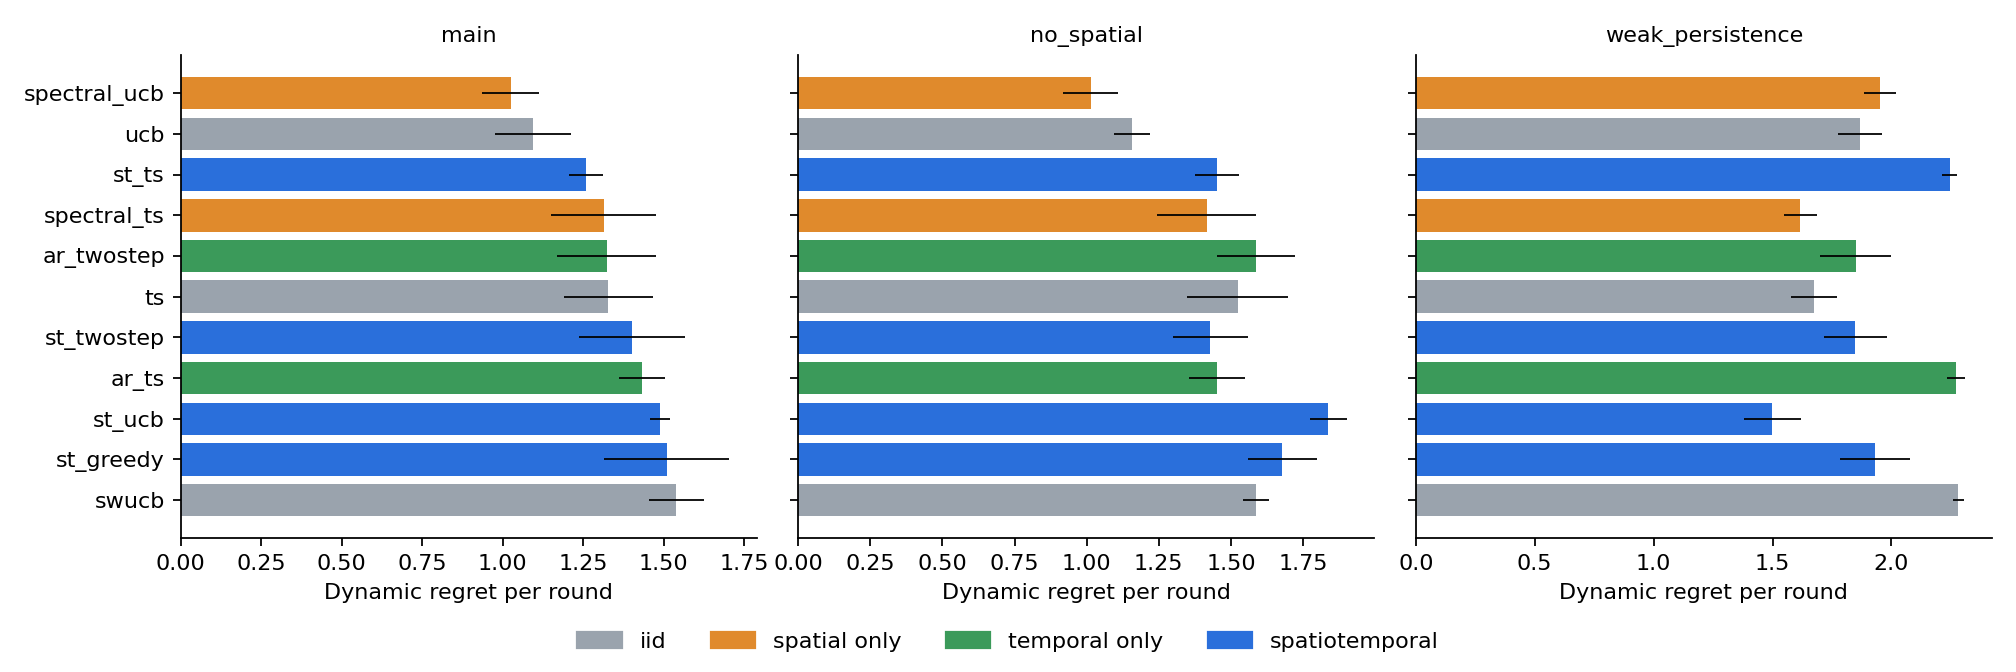
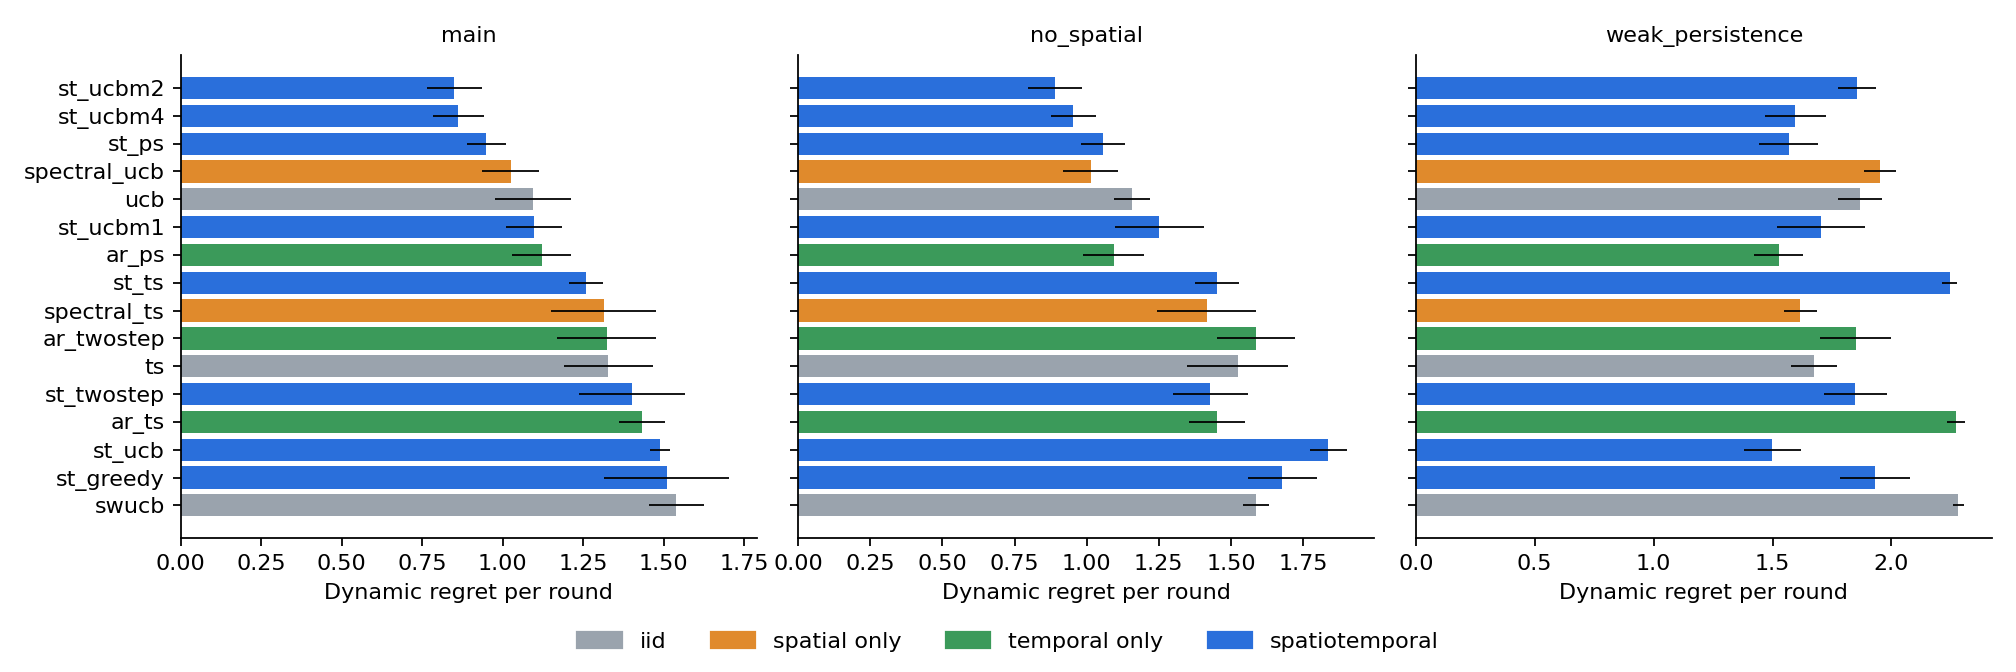
Toy results: predictive sampling and tuned ST-UCB beat iid, spatial-only and temporal-only baselines

diff --git a/experiments/st_toy/analyze.py b/experiments/st_toy/analyze.py
@@ -26,6 +26,8 @@ FAMILY = {
     "ar_ts": "temporal only", "ar_twostep": "temporal only",
     "st_greedy": "spatiotemporal", "st_ts": "spatiotemporal", "st_ucb": "spatiotemporal",
     "st_twostep": "spatiotemporal",
+    "st_ps": "spatiotemporal", "st_ucbm1": "spatiotemporal", "st_ucbm2": "spatiotemporal",
+    "st_ucbm4": "spatiotemporal", "ar_ps": "temporal only",
 }
 COLORS = {"iid": "#9aa3ad", "spatial only": "#e08a2c", "temporal only": "#3b9a5a", "spatiotemporal": "#2a6fdb"}
 
@@ -45,6 +47,8 @@ def innovation_floor(config: str, seed: int, draws: int = 200_000) -> float:
 
 def main() -> None:
     runs = pd.read_csv(RESULTS / "runs.csv")
+    if (RESULTS / "runs_extra.csv").exists():
+        runs = pd.concat([runs, pd.read_csv(RESULTS / "runs_extra.csv")], ignore_index=True)
     T = max(int(c.split("@")[1]) for c in runs.columns if c.startswith("dyn@") and runs[c].notna().all())
     runs["dyn_per_round"] = runs[f"dyn@{T}"] / T
     runs["mu_per_round"] = runs[f"mu@{T}"] / T
@@ -67,12 +71,14 @@ def main() -> None:
     lines = [f"Regret per round at T = {T:,} (mean over seeds; standard error in brackets). Dynamic regret is "
              "against the full-current-state oracle; mean regret against the best long-run mean.", ""]
     for config, d in s.groupby("config", sort=False):
+        ts_reg = d.set_index("policy").dynamic_regret_per_round["ts"]
         lines += [f"**{config}** (innovation lower bound: {floor[config]:.3f} per round)", "",
-                  "| Policy | Uses | Dynamic regret / round | Ratio to TS | Mean regret / round |",
-                  "| --- | --- | ---: | ---: | ---: |"]
+                  "| Policy | Uses | Dynamic regret / round | Ratio to TS | Gap to the bound closed | Mean regret / round |",
+                  "| --- | --- | ---: | ---: | ---: | ---: |"]
         for _, r in d.sort_values("dynamic_regret_per_round").iterrows():
+            closed = (ts_reg - r.dynamic_regret_per_round) / (ts_reg - floor[config])
             lines.append(f"| {r.policy} | {r.family} | {r.dynamic_regret_per_round:.3f} [{r.se:.3f}] "
-                         f"| {r.ratio_to_ts:.3f} | {r.mean_regret_per_round:.3f} |")
+                         f"| {r.ratio_to_ts:.3f} | {closed:+.0%} | {r.mean_regret_per_round:.3f} |")
         lines.append("")
     text = "\n".join(lines)
     (RESULTS / "summary.md").write_text(text)

diff --git a/research/st_toy/results/summary.md b/research/st_toy/results/summary.md
@@ -2,48 +2,63 @@ Regret per round at T = 2,000 (mean over seeds; standard error in brackets). Dyn
 
 **main** (innovation lower bound: 0.298 per round)
 
-| Policy | Uses | Dynamic regret / round | Ratio to TS | Mean regret / round |
-| --- | --- | ---: | ---: | ---: |
-| spectral_ucb | spatial only | 1.026 [0.045] | 0.794 | 0.712 |
-| ucb | iid | 1.095 [0.061] | 0.847 | 0.682 |
-| st_ts | spatiotemporal | 1.258 [0.027] | 0.969 | 0.784 |
-| spectral_ts | spatial only | 1.314 [0.083] | 1.004 | 0.530 |
-| ar_twostep | temporal only | 1.323 [0.078] | 1.022 | 0.780 |
-| ts | iid | 1.329 [0.070] | 1.000 | 0.523 |
-| st_twostep | spatiotemporal | 1.402 [0.084] | 1.086 | 0.681 |
-| ar_ts | temporal only | 1.433 [0.036] | 1.103 | 0.821 |
-| st_ucb | spatiotemporal | 1.489 [0.016] | 1.145 | 0.876 |
-| st_greedy | spatiotemporal | 1.509 [0.099] | 1.166 | 0.774 |
-| swucb | iid | 1.540 [0.043] | 1.191 | 0.916 |
+| Policy | Uses | Dynamic regret / round | Ratio to TS | Gap to the bound closed | Mean regret / round |
+| --- | --- | ---: | ---: | ---: | ---: |
+| st_ucbm2 | spatiotemporal | 0.850 [0.043] | 0.651 | +46% | 0.565 |
+| st_ucbm4 | spatiotemporal | 0.863 [0.040] | 0.666 | +45% | 0.655 |
+| st_ps | spatiotemporal | 0.950 [0.031] | 0.733 | +37% | 0.686 |
+| spectral_ucb | spatial only | 1.026 [0.045] | 0.794 | +29% | 0.712 |
+| ucb | iid | 1.095 [0.061] | 0.847 | +23% | 0.682 |
+| st_ucbm1 | spatiotemporal | 1.098 [0.045] | 0.845 | +22% | 0.600 |
+| ar_ps | temporal only | 1.121 [0.047] | 0.864 | +20% | 0.752 |
+| st_ts | spatiotemporal | 1.258 [0.027] | 0.969 | +7% | 0.784 |
+| spectral_ts | spatial only | 1.314 [0.083] | 1.004 | +1% | 0.530 |
+| ar_twostep | temporal only | 1.323 [0.078] | 1.022 | +1% | 0.780 |
+| ts | iid | 1.329 [0.070] | 1.000 | +0% | 0.523 |
+| st_twostep | spatiotemporal | 1.402 [0.084] | 1.086 | -7% | 0.681 |
+| ar_ts | temporal only | 1.433 [0.036] | 1.103 | -10% | 0.821 |
+| st_ucb | spatiotemporal | 1.489 [0.016] | 1.145 | -16% | 0.876 |
+| st_greedy | spatiotemporal | 1.509 [0.099] | 1.166 | -17% | 0.774 |
+| swucb | iid | 1.540 [0.043] | 1.191 | -20% | 0.916 |
 
 **no_spatial** (innovation lower bound: 0.323 per round)
 
-| Policy | Uses | Dynamic regret / round | Ratio to TS | Mean regret / round |
-| --- | --- | ---: | ---: | ---: |
-| spectral_ucb | spatial only | 1.014 [0.049] | 0.685 | 0.592 |
-| ucb | iid | 1.157 [0.032] | 0.775 | 0.661 |
-| spectral_ts | spatial only | 1.416 [0.087] | 0.933 | 0.554 |
-| st_twostep | spatiotemporal | 1.429 [0.066] | 0.973 | 0.717 |
-| st_ts | spatiotemporal | 1.452 [0.039] | 0.980 | 0.806 |
-| ar_ts | temporal only | 1.452 [0.050] | 0.982 | 0.826 |
-| ts | iid | 1.523 [0.090] | 1.000 | 0.584 |
-| ar_twostep | temporal only | 1.586 [0.069] | 1.083 | 0.883 |
-| swucb | iid | 1.586 [0.023] | 1.076 | 0.909 |
-| st_greedy | spatiotemporal | 1.678 [0.061] | 1.138 | 0.782 |
-| st_ucb | spatiotemporal | 1.838 [0.033] | 1.242 | 0.929 |
+| Policy | Uses | Dynamic regret / round | Ratio to TS | Gap to the bound closed | Mean regret / round |
+| --- | --- | ---: | ---: | ---: | ---: |
+| st_ucbm2 | spatiotemporal | 0.890 [0.048] | 0.599 | +53% | 0.512 |
+| st_ucbm4 | spatiotemporal | 0.953 [0.040] | 0.648 | +48% | 0.680 |
+| spectral_ucb | spatial only | 1.014 [0.049] | 0.685 | +42% | 0.592 |
+| st_ps | spatiotemporal | 1.057 [0.039] | 0.717 | +39% | 0.721 |
+| ar_ps | temporal only | 1.094 [0.054] | 0.744 | +36% | 0.743 |
+| ucb | iid | 1.157 [0.032] | 0.775 | +30% | 0.661 |
+| st_ucbm1 | spatiotemporal | 1.252 [0.078] | 0.849 | +23% | 0.736 |
+| spectral_ts | spatial only | 1.416 [0.087] | 0.933 | +9% | 0.554 |
+| st_twostep | spatiotemporal | 1.429 [0.066] | 0.973 | +8% | 0.717 |
+| st_ts | spatiotemporal | 1.452 [0.039] | 0.980 | +6% | 0.806 |
+| ar_ts | temporal only | 1.452 [0.050] | 0.982 | +6% | 0.826 |
+| ts | iid | 1.523 [0.090] | 1.000 | +0% | 0.584 |
+| ar_twostep | temporal only | 1.586 [0.069] | 1.083 | -5% | 0.883 |
+| swucb | iid | 1.586 [0.023] | 1.076 | -5% | 0.909 |
+| st_greedy | spatiotemporal | 1.678 [0.061] | 1.138 | -13% | 0.782 |
+| st_ucb | spatiotemporal | 1.838 [0.033] | 1.242 | -26% | 0.929 |
 
 **weak_persistence** (innovation lower bound: 1.276 per round)
 
-| Policy | Uses | Dynamic regret / round | Ratio to TS | Mean regret / round |
-| --- | --- | ---: | ---: | ---: |
-| st_ucb | spatiotemporal | 1.499 [0.061] | 0.896 | 0.192 |
-| spectral_ts | spatial only | 1.617 [0.035] | 0.967 | 0.242 |
-| ts | iid | 1.675 [0.049] | 1.000 | 0.293 |
-| st_twostep | spatiotemporal | 1.848 [0.068] | 1.113 | 0.459 |
-| ar_twostep | temporal only | 1.850 [0.077] | 1.108 | 0.502 |
-| ucb | iid | 1.867 [0.048] | 1.117 | 0.557 |
-| st_greedy | spatiotemporal | 1.932 [0.075] | 1.161 | 0.545 |
-| spectral_ucb | spatial only | 1.953 [0.034] | 1.170 | 0.697 |
-| st_ts | spatiotemporal | 2.246 [0.016] | 1.348 | 0.862 |
-| ar_ts | temporal only | 2.270 [0.019] | 1.362 | 0.879 |
-| swucb | iid | 2.282 [0.012] | 1.370 | 0.963 |
+| Policy | Uses | Dynamic regret / round | Ratio to TS | Gap to the bound closed | Mean regret / round |
+| --- | --- | ---: | ---: | ---: | ---: |
+| st_ucb | spatiotemporal | 1.499 [0.061] | 0.896 | +44% | 0.192 |
+| ar_ps | temporal only | 1.525 [0.053] | 0.911 | +38% | 0.198 |
+| st_ps | spatiotemporal | 1.568 [0.063] | 0.937 | +27% | 0.257 |
+| st_ucbm4 | spatiotemporal | 1.596 [0.065] | 0.956 | +20% | 0.297 |
+| spectral_ts | spatial only | 1.617 [0.035] | 0.967 | +15% | 0.242 |
+| ts | iid | 1.675 [0.049] | 1.000 | +0% | 0.293 |
+| st_ucbm1 | spatiotemporal | 1.705 [0.094] | 1.026 | -7% | 0.345 |
+| st_twostep | spatiotemporal | 1.848 [0.068] | 1.113 | -43% | 0.459 |
+| ar_twostep | temporal only | 1.850 [0.077] | 1.108 | -44% | 0.502 |
+| st_ucbm2 | spatiotemporal | 1.856 [0.041] | 1.114 | -45% | 0.522 |
+| ucb | iid | 1.867 [0.048] | 1.117 | -48% | 0.557 |
+| st_greedy | spatiotemporal | 1.932 [0.075] | 1.161 | -64% | 0.545 |
+| spectral_ucb | spatial only | 1.953 [0.034] | 1.170 | -70% | 0.697 |
+| st_ts | spatiotemporal | 2.246 [0.016] | 1.348 | -143% | 0.862 |
+| ar_ts | temporal only | 2.270 [0.019] | 1.362 | -149% | 0.879 |
+| swucb | iid | 2.282 [0.012] | 1.370 | -152% | 0.963 |

diff --git a/research/st_toy/README.md b/research/st_toy/README.md
@@ -52,7 +52,38 @@ The filter is verified against dense Gaussian conditioning over the full node-ti
 
 ## 3. Results
 
-*Running; this section is filled in when the runs finish.*
+Dynamic regret per round at T = 2,000, 8 seeds; full tables with standard errors are in [results/summary.md](results/summary.md). "Gap closed" is (regret of TS − regret of the policy) / (regret of TS − innovation lower bound).
+
+![Dynamic regret by policy and configuration](results/regret.png)
+
+| Policy | Uses | Main | No spatial correlation | Weak persistence |
+| --- | --- | ---: | ---: | ---: |
+| ST UCB, bonus 2 sd | spatiotemporal | **0.850** (46% closed) | **0.890** | 1.856 |
+| ST UCB, bonus 4 sd | spatiotemporal | 0.863 | 0.953 | 1.596 |
+| **ST predictive sampling** (no tuning) | spatiotemporal | **0.950** (37% closed) | 1.057 | 1.568 |
+| SpectralUCB | spatial only | 1.026 | 1.014 | 1.953 |
+| UCB1 | iid | 1.095 | 1.157 | 1.867 |
+| AR predictive sampling | temporal only | 1.121 | 1.094 | **1.525** |
+| ST Thompson sampling (current state) | spatiotemporal | 1.258 | 1.452 | 2.246 |
+| Thompson sampling | iid | 1.329 | 1.523 | 1.675 |
+| ST two-period score | spatiotemporal | 1.402 | 1.429 | 1.848 |
+| ST UCB, theory constant (about 6.7 sd) | spatiotemporal | 1.489 | 1.838 | 1.499 |
+| ST greedy | spatiotemporal | 1.509 | 1.678 | 1.932 |
+| Sliding-window UCB | iid | 1.540 | 1.586 | 2.282 |
+| *Innovation lower bound* | | *0.298* | *0.323* | *1.276* |
+
+**Reading.**
+
+1. **The spatiotemporal model wins once exploration targets the right uncertainty.** Predictive sampling explores only uncertainty that persists into the next round, and needs no tuning. It cuts dynamic regret 27% against TS and 13% against UCB1, closing 37% of the gap to the innovation lower bound. Tuned spatiotemporal UCB closes 46%.
+2. **Exploring the wrong uncertainty is as harmful as ignoring the model:**
+    - Greedy never explores, and is worse than TS.
+    - Current-state TS samples the fresh innovation, and gains only 7%.
+    - UCB with the theory constant explores about 6.7 sd and over-explores (−16%).
+
+   This matches KuaiRec daily, where current-state TS was also the worst learning policy.
+3. **Spatial correlation adds on top of persistence.** In the main configuration, joint predictive sampling beats the temporal-only version (0.950 against 1.121, 15%). Without spatial correlation, SpectralUCB is competitive, as expected.
+4. **With weak persistence, the benefit shrinks.** The lower bound is already 1.28 per round, and the best policies close only 25–35% of the gap.
+5. **Caveat.** The tuned UCB multipliers {1, 2, 4} were compared on the same runs, so the 2-sd result has mild selection bias. Predictive sampling has no tuning parameter and is the fair headline.
 
 ## Reproduce
 
